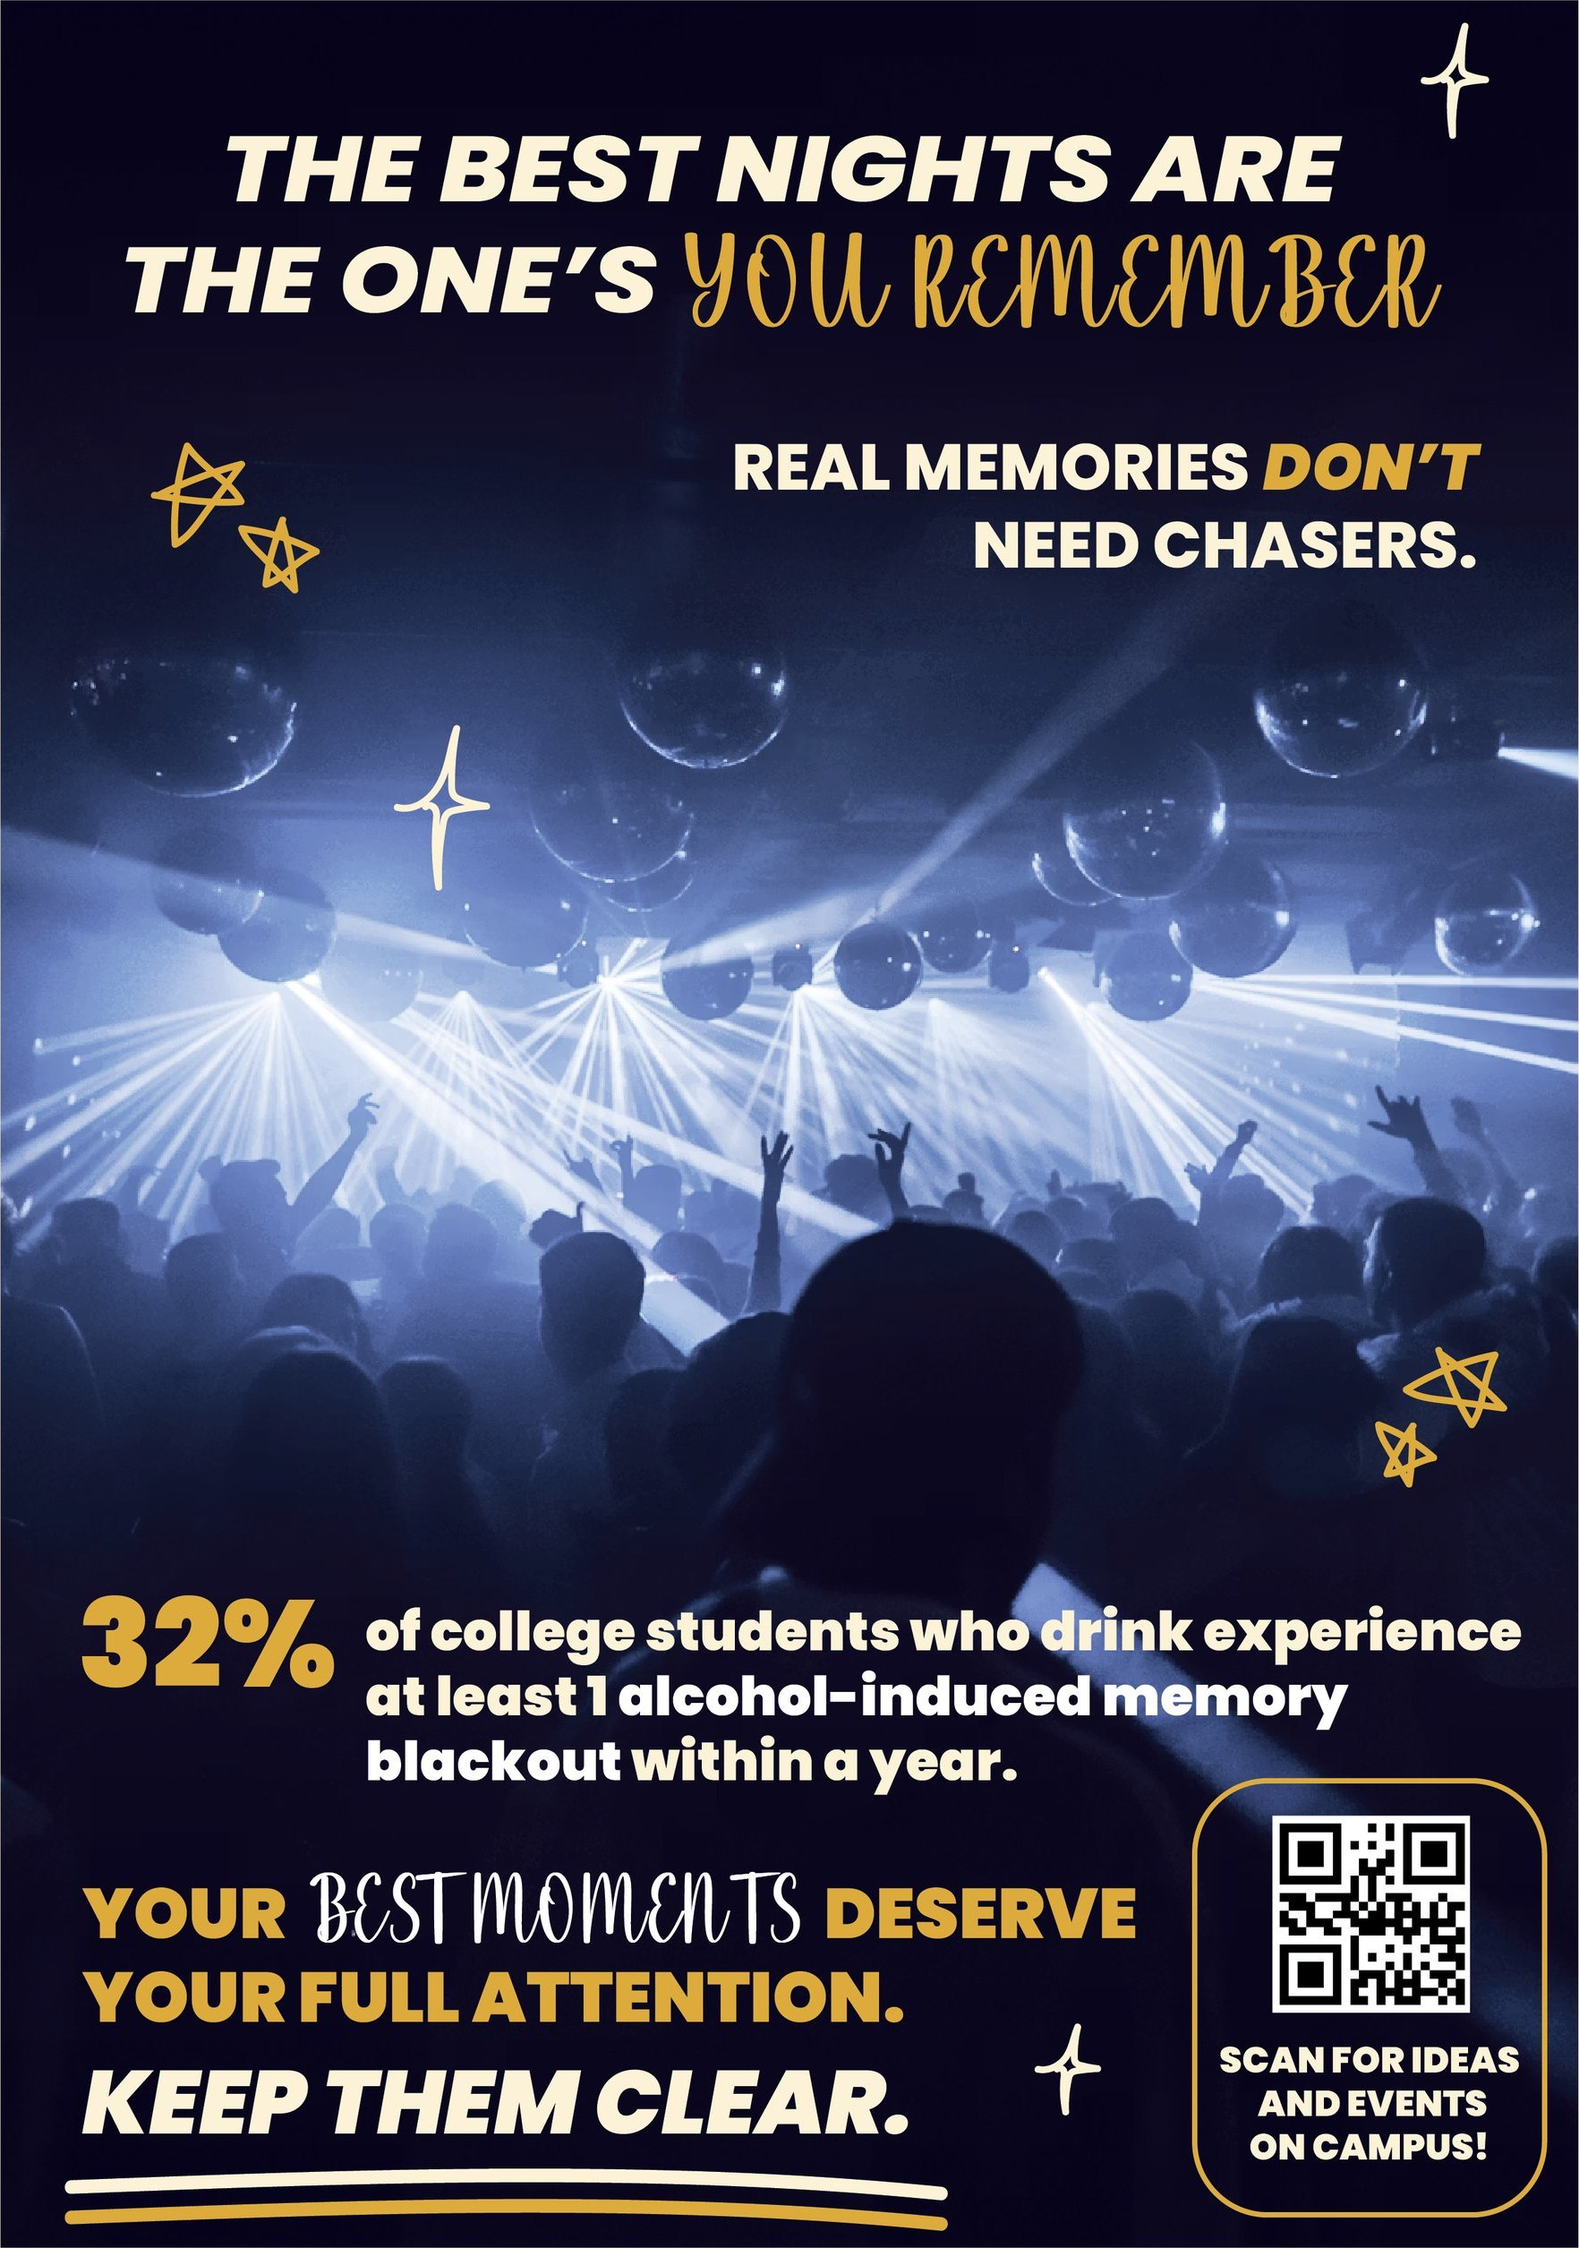
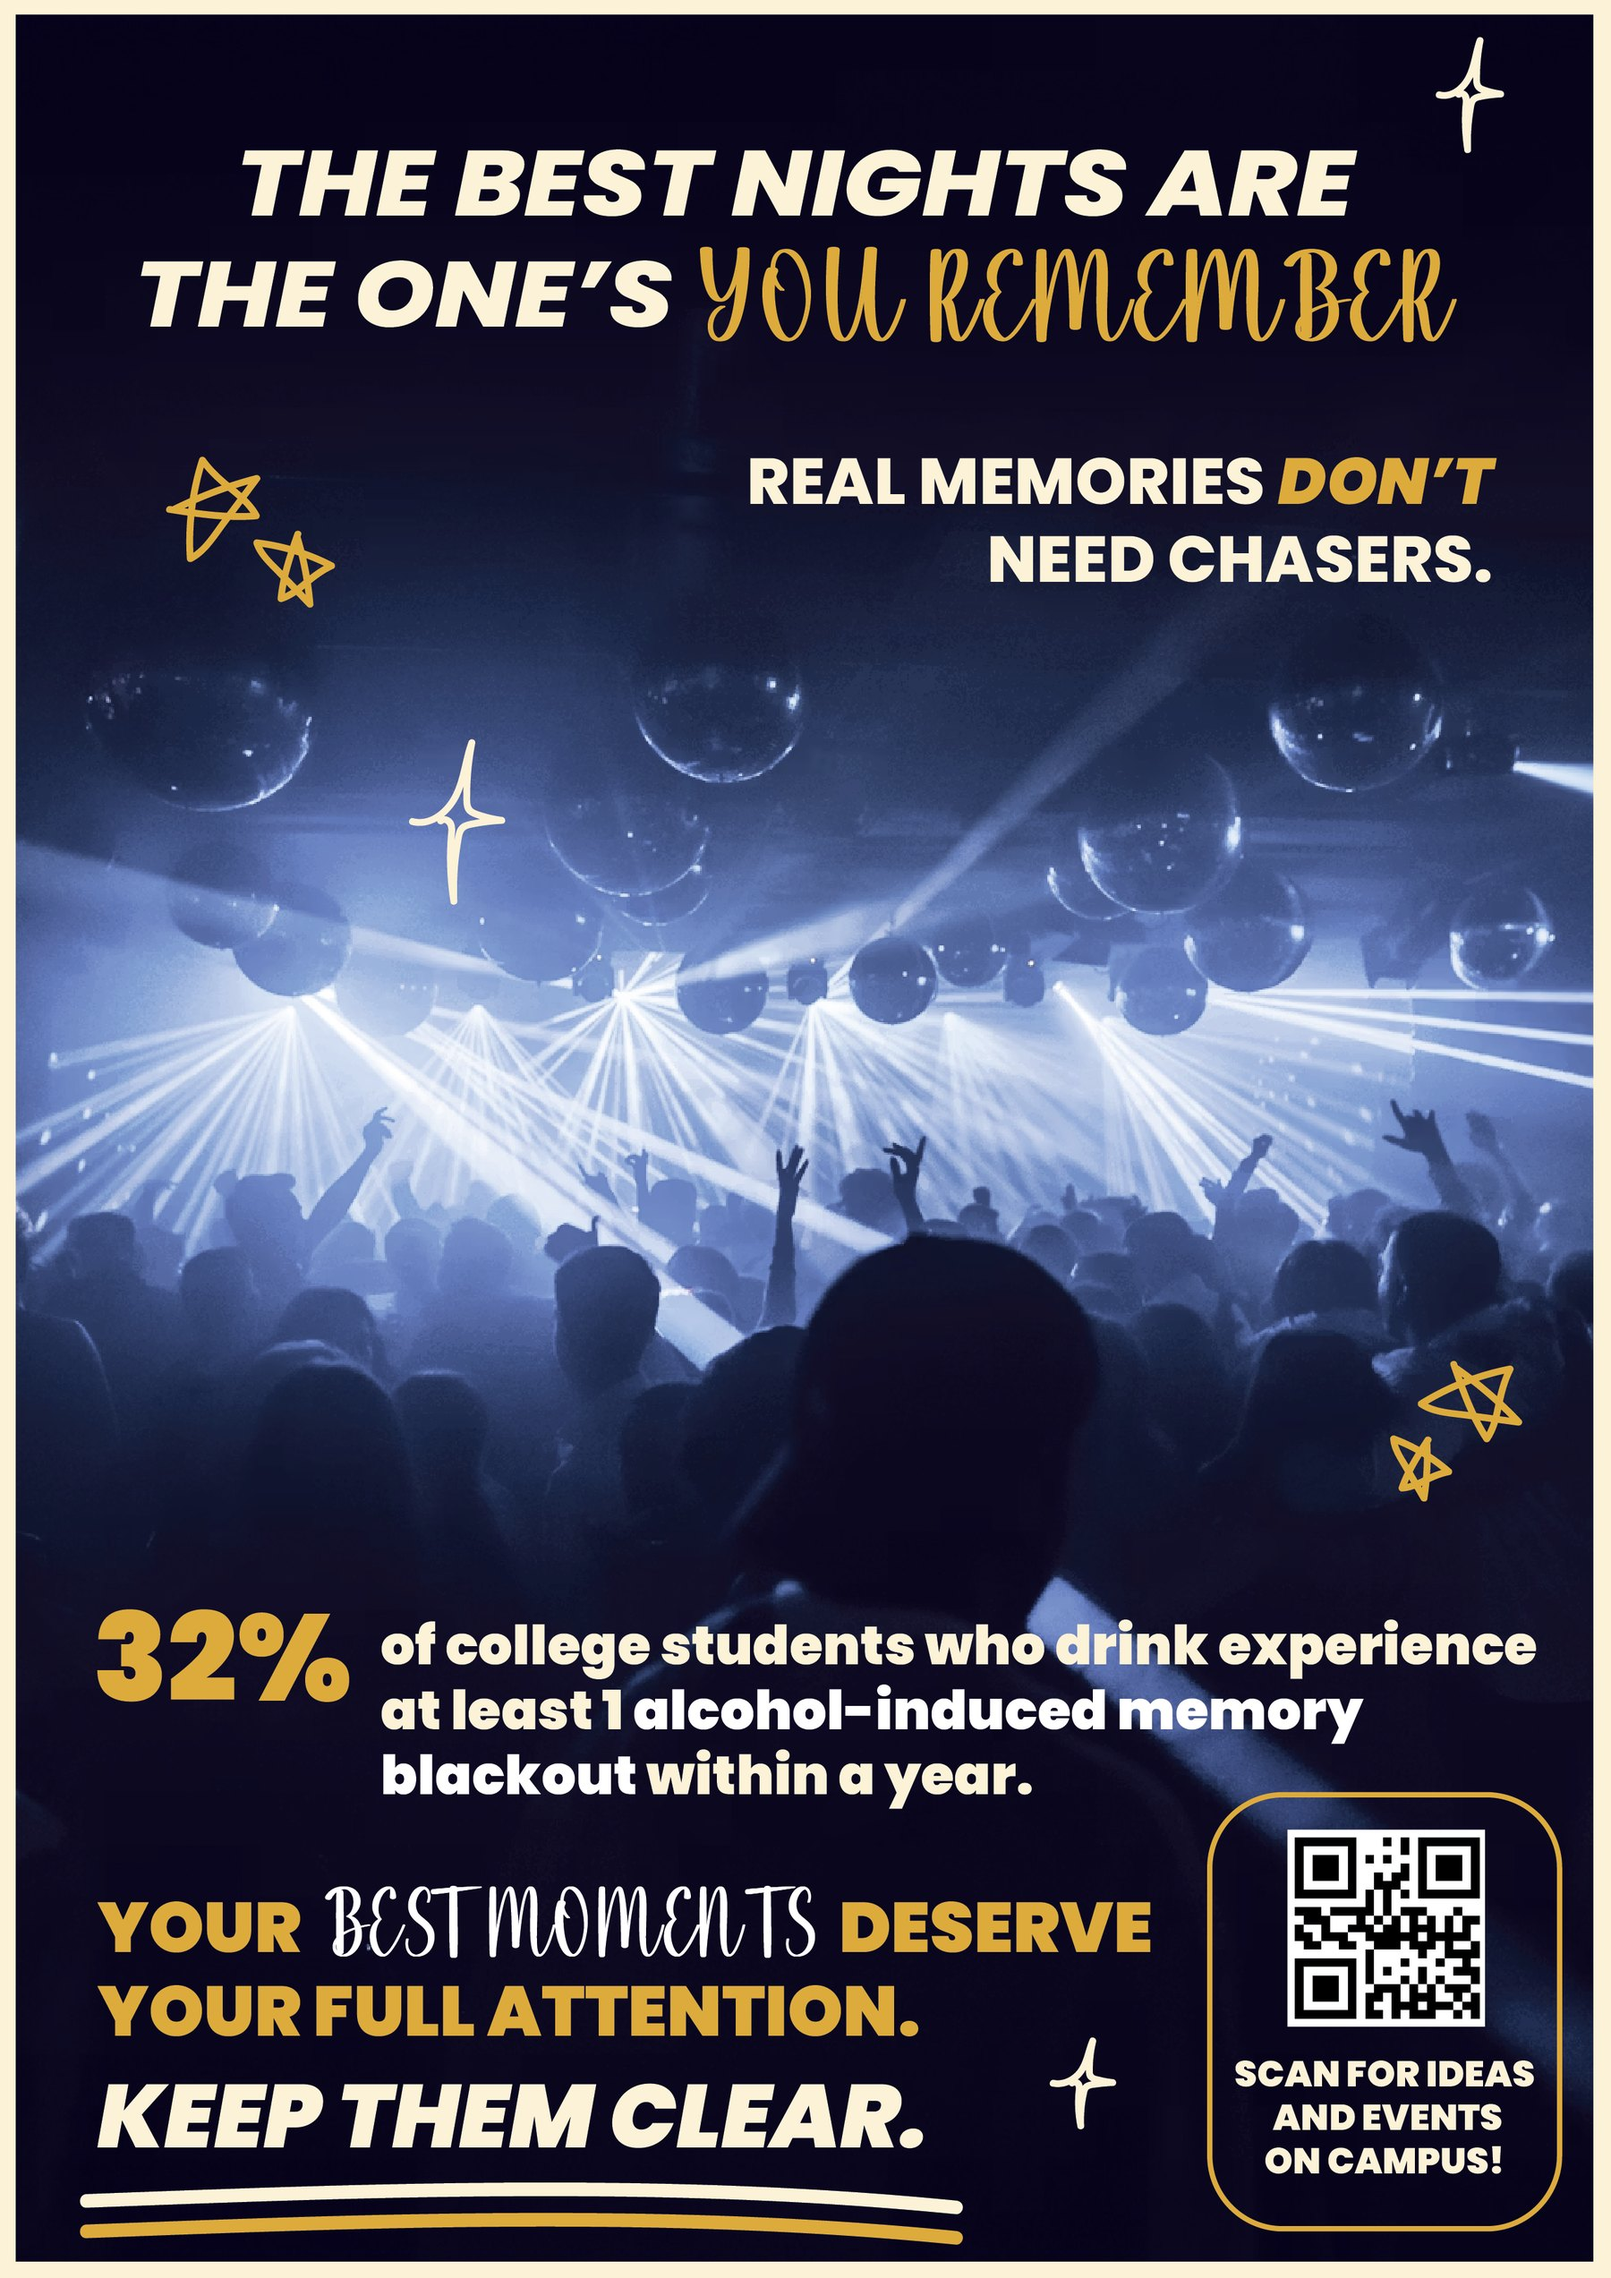
A Night to Remember poster: keep the cream border

diff --git a/night.html b/night.html
@@ -170,7 +170,7 @@
       <div class="split">
         <figure class="frame tall poster-frame">
           <button type="button" class="zoomable" data-full="assets/night/poster-full.jpg" aria-label="View the poster larger">
-            <img src="assets/night/poster.jpg" alt="Campaign poster: The best nights are the ones you remember. Real memories don't need chasers. 32% of college students who drink experience at least 1 alcohol-induced memory blackout within a year." loading="lazy" width="1400" height="1979">
+            <img src="assets/night/poster.jpg" alt="Campaign poster: The best nights are the ones you remember. Real memories don't need chasers. 32% of college students who drink experience at least 1 alcohol-induced memory blackout within a year." loading="lazy" width="1400" height="1980">
           </button>
         </figure>
         <div class="prose">
